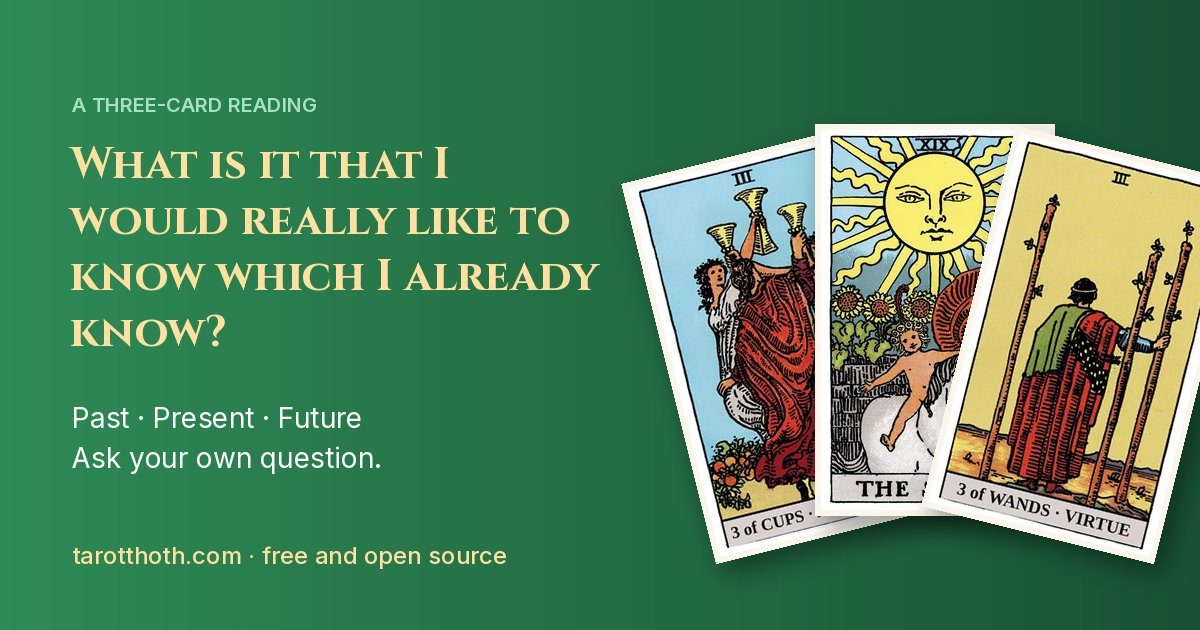
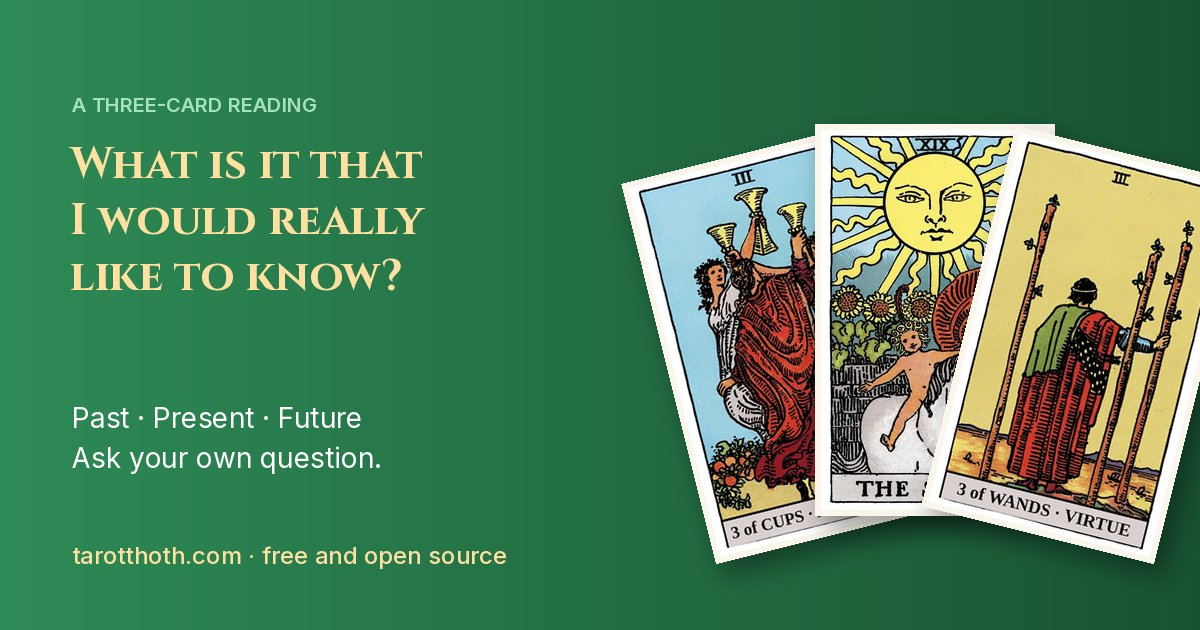
Link preview image: use the shorter front page question
Redraw static/site/og-image.jpg with "What is it that I would really like to
know?" to match the new front page headline, update og:image:alt, and make
make_site_images.py balance wrapped lines so no word sits alone.

Claude-Session: https://claude.ai/code/session_017ncajL4Fh6poZ3yvFdjNxM

Changed region(s): [[0.0617, 0.3016, 0.4933, 0.573], [0.3392, 0.2413, 0.37, 0.2714]]

diff --git a/templates/_head_meta.html b/templates/_head_meta.html
@@ -16,7 +16,7 @@
     <meta property="og:image" content="{{ site_url(request) }}/static/site/og-image.jpg">
     <meta property="og:image:width" content="1200">
     <meta property="og:image:height" content="630">
-    <meta property="og:image:alt" content="The question What is it that I would really like to know which I already know? beside the Three of Cups, The Sun and the Three of Wands from the 1909 Rider-Waite-Smith deck, fanned as past, present and future">
+    <meta property="og:image:alt" content="The question What is it that I would really like to know? beside the Three of Cups, The Sun and the Three of Wands from the 1909 Rider-Waite-Smith deck, fanned as past, present and future">
     <meta name="twitter:card" content="summary_large_image">
     <meta name="twitter:title" content="{{ page_title | default('OOTK Thoth Engine') }}">
     <meta name="twitter:description" content="{{ page_description | default(site_description) }}">

diff --git a/scripts/make_site_images.py b/scripts/make_site_images.py
@@ -31,7 +31,7 @@ DEEP_GREEN = (24, 82, 50)   # the darker end of the preview's gradient
 CREAM = (255, 224, 160)     # #ffe0a0, text directly on green
 PANEL = (167, 226, 192)     # #a7e2c0, the site's panel green, for the small label
 LABEL = "A THREE-CARD READING"
-QUESTION = "What is it that I would really like to know which I already know?"
+QUESTION = "What is it that I would really like to know?"
 TAGLINE = ["Past · Present · Future", "Ask your own question."]
 FOOTER = "tarotthoth.com · free and open source"
 PREVIEW_CARDS = ["3-of-cups---abundance.webp", "xix---the-sun.webp", "3-of-wands---virtue.webp"]
@@ -89,6 +89,15 @@ def icon(size, rounded=True):
 
 
 def wrap(draw, text, fnt, width):
+    """Wrap to `width`, then narrow it while the line count holds, so the lines come out
+    even and the last one is never a lone word."""
+    lines = _wrap(draw, text, fnt, width)
+    while width > 100 and len(_wrap(draw, text, fnt, width - 10)) == len(lines):
+        width -= 10
+    return _wrap(draw, text, fnt, width)
+
+
+def _wrap(draw, text, fnt, width):
     lines, line = [], ""
     for word in text.split():
         trial = f"{line} {word}".strip()
